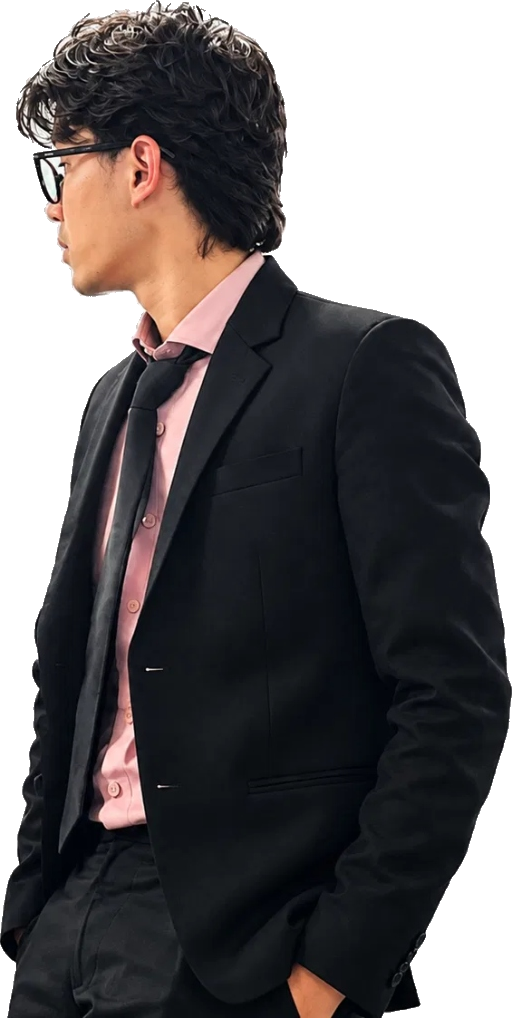
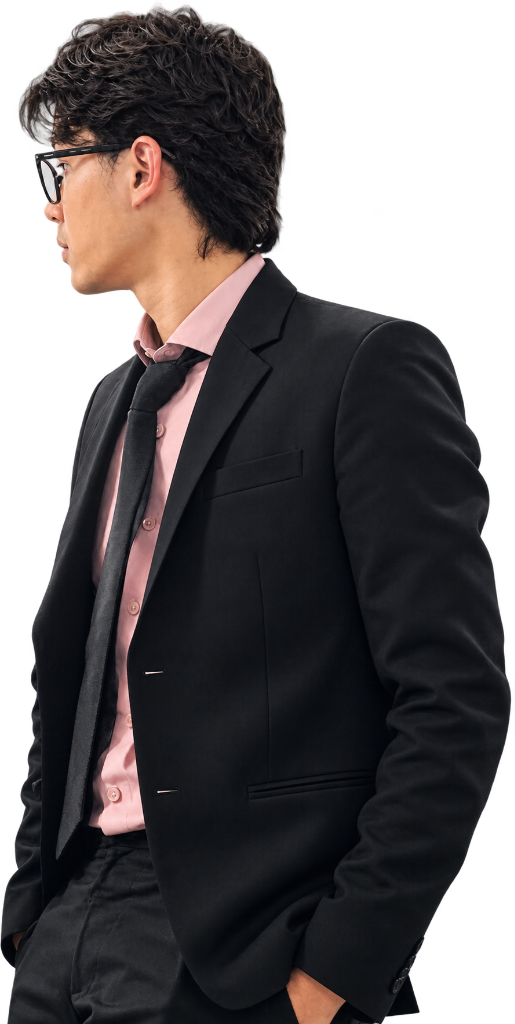
chore(assets): update hero portrait to new photo

diff --git a/src/components/sections/Hero.tsx b/src/components/sections/Hero.tsx
@@ -126,8 +126,8 @@ export default function PublicHero({ profile }: HeroProps) {
               <Image
                 src="/images/hero-kiran.png"
                 alt="Kiran Sinha"
-                width={512}
-                height={1018}
+                width={515}
+                height={1024}
                 priority
                 unoptimized
                 className="relative z-10 h-full w-auto block select-none pointer-events-none"
